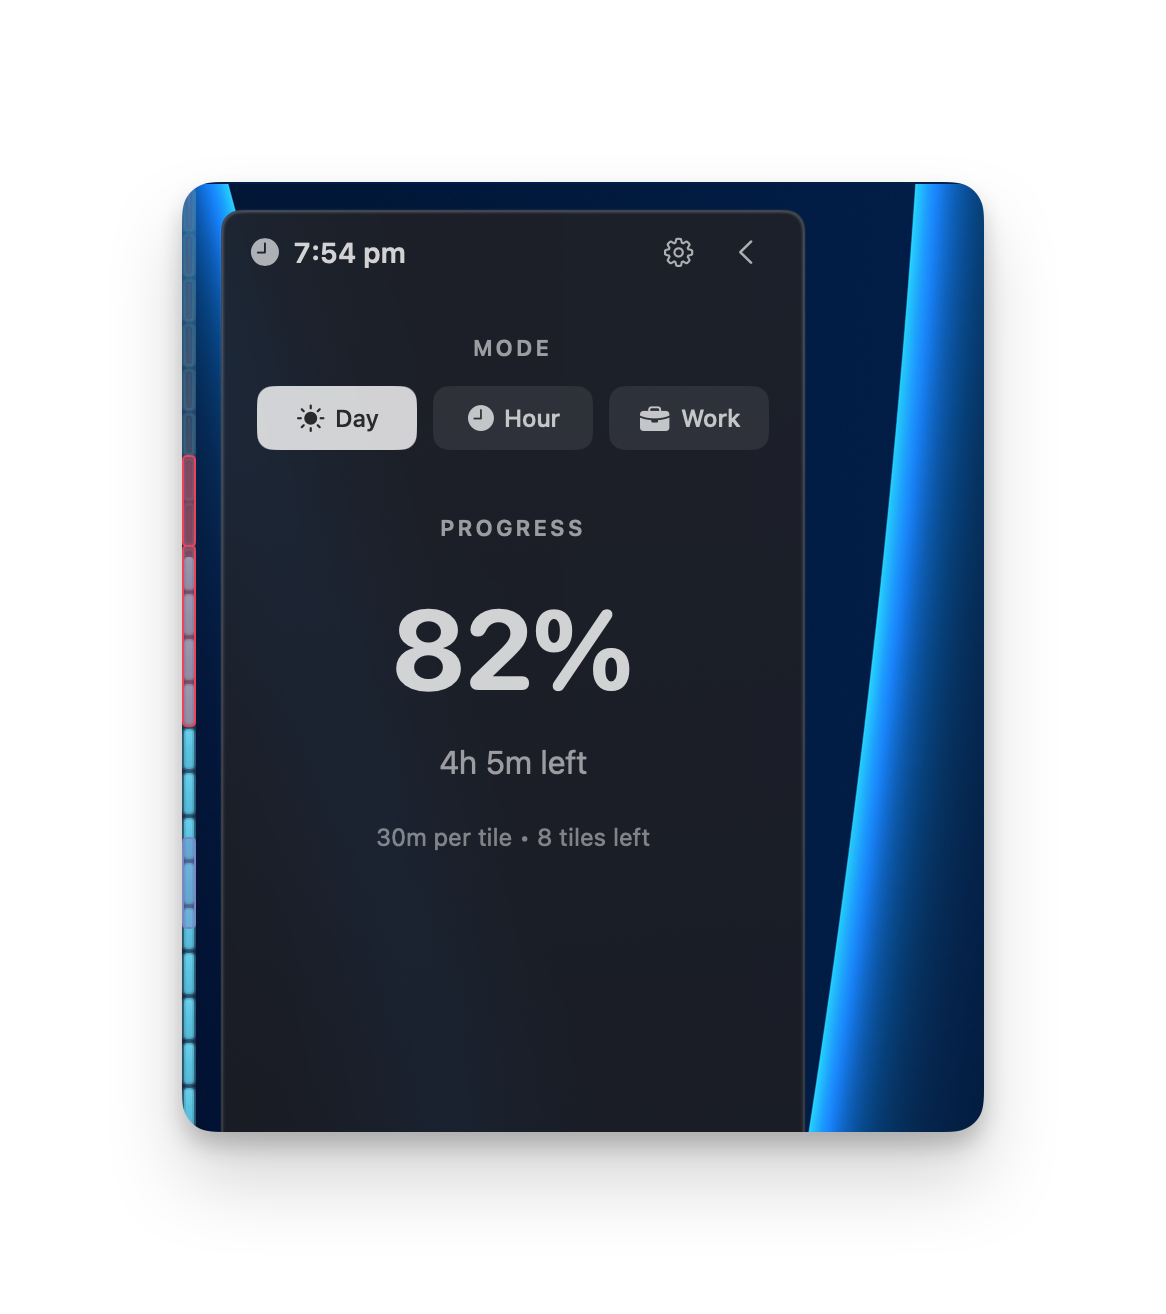
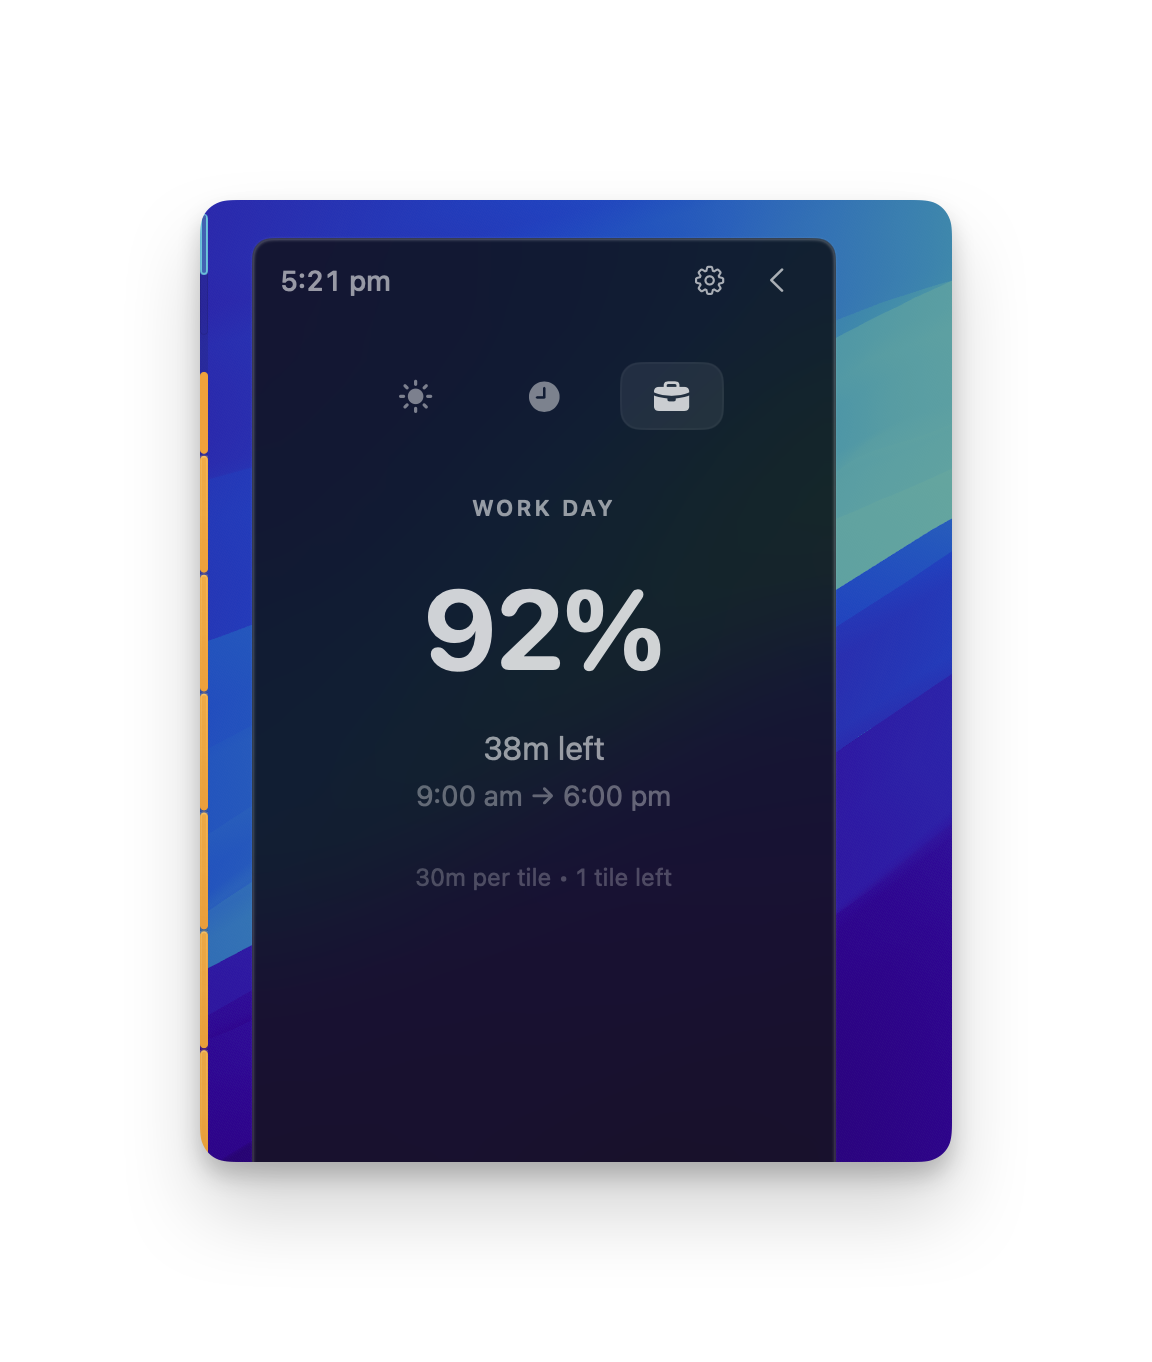
Update release previews

Changed region(s): [[0.125, 0.1248, 0.875, 0.8737], [0.3125, 0.624, 0.5938, 0.6553]]

diff --git a/README.md b/README.md
@@ -22,9 +22,15 @@ It lives at the edge of your screen, just inside your peripheral vision. A glanc
 
 <div align="center">
 
-<img src="assets/preview-light.png" alt="SideTime showing the day's progress in light mode" width="30%" />&nbsp;&nbsp;<img src="assets/preview-dark.png" alt="SideTime edge rail in dark mode" width="30%" />&nbsp;&nbsp;<img src="assets/preview-events.png" alt="SideTime mapping calendar events onto the time rail" width="30%" />
+<img src="assets/onboarding-panel.gif" alt="Opening the SideTime edge panel" width="30%" />&nbsp;&nbsp;<img src="assets/onboarding-modes.gif" alt="Switching between Day, Hour, and Work modes" width="30%" />&nbsp;&nbsp;<img src="assets/onboarding-events.gif" alt="Viewing calendar events on the SideTime rail" width="30%" />
 
-<sub><b>Light theme</b>&emsp;·&emsp;<b>Dark theme</b>&emsp;·&emsp;<b>Calendar integration</b></sub>
+<sub><b>Quick panel</b>&emsp;·&emsp;<b>Time modes</b>&emsp;·&emsp;<b>Events</b></sub>
+
+<br /><br />
+
+<img src="assets/preview-light.png" alt="SideTime showing the day's progress in light mode" width="30%" />&nbsp;&nbsp;<img src="assets/preview-dark.png" alt="SideTime edge rail in dark mode" width="30%" />
+
+<sub><b>Light theme</b>&emsp;·&emsp;<b>Dark theme</b></sub>
 
 </div>
 
